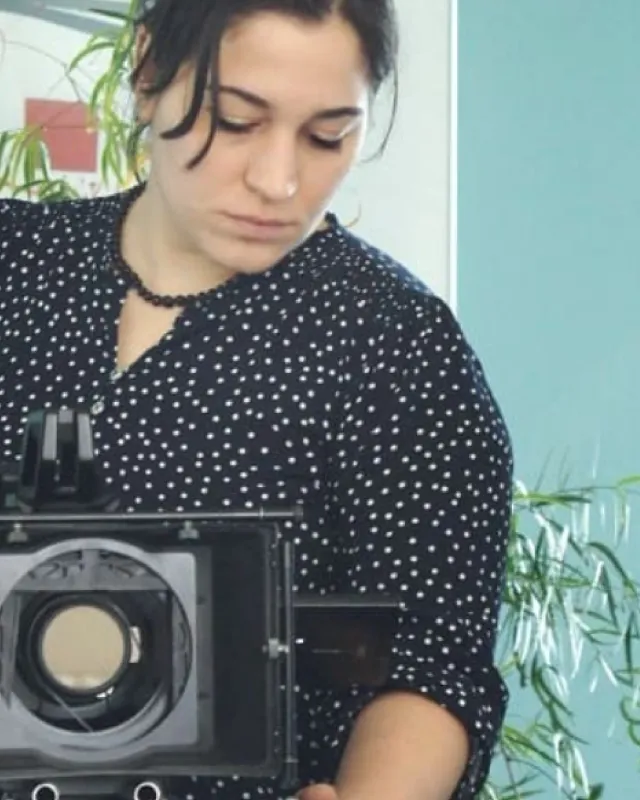
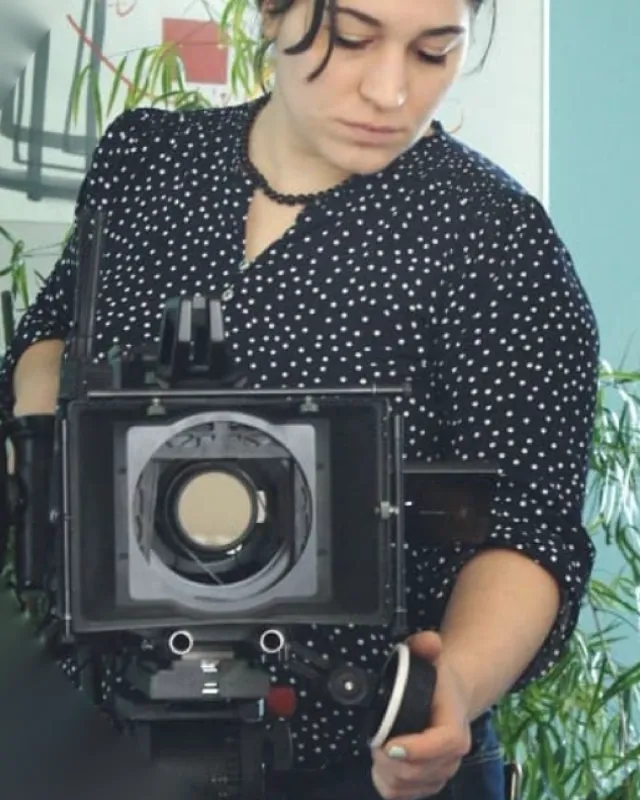
fix: wider 2014 photo framing showing the camera
Larger 4:5 box placed lower and left on the circle-masked source, the
small transparent corners are filled with OpenCV inpainting. The card
crop anchor moves down so the camera body and lens stay in view.

diff --git a/src/styles/timeline.css b/src/styles/timeline.css
@@ -10,7 +10,7 @@
    crop moves to the part that matters in each picture. */
 .tl__card img { width: 100%; height: auto; aspect-ratio: 4 / 5; max-height: 31vh; object-fit: cover; border-bottom: var(--border); }
 .tl__card img.tl__img--sm { object-position: 50% 60%; }
-.tl__card img.tl__img--cam { object-position: 50% 25%; }
+.tl__card img.tl__img--cam { object-position: 50% 60%; }
 .tl__card img.tl__img--lesson { object-position: 50% 45%; }
 .tl__card img.tl__img--top { object-position: 50% 0; }
 .tl__card p { padding: 8px 10px 10px; font-size: 12px; line-height: 1.32; }
